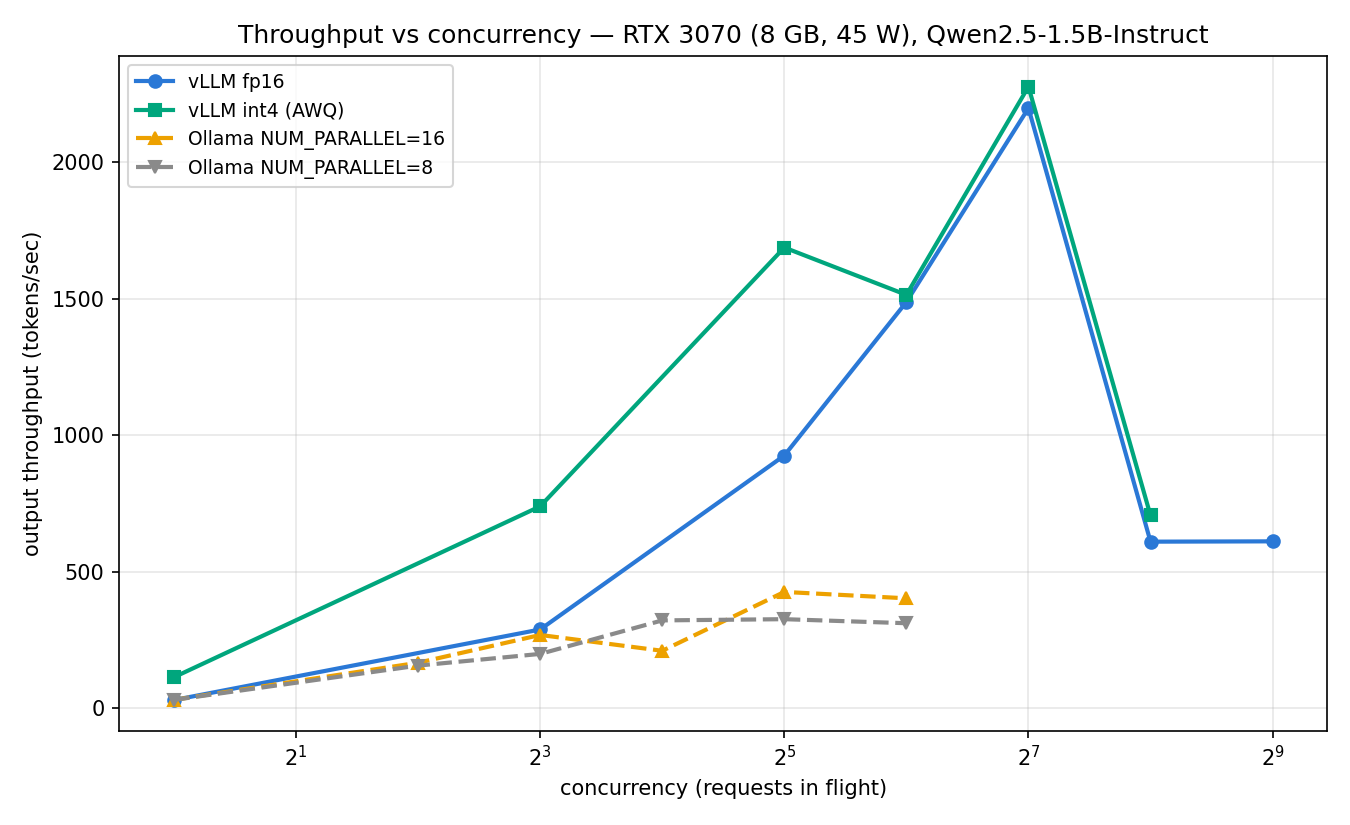
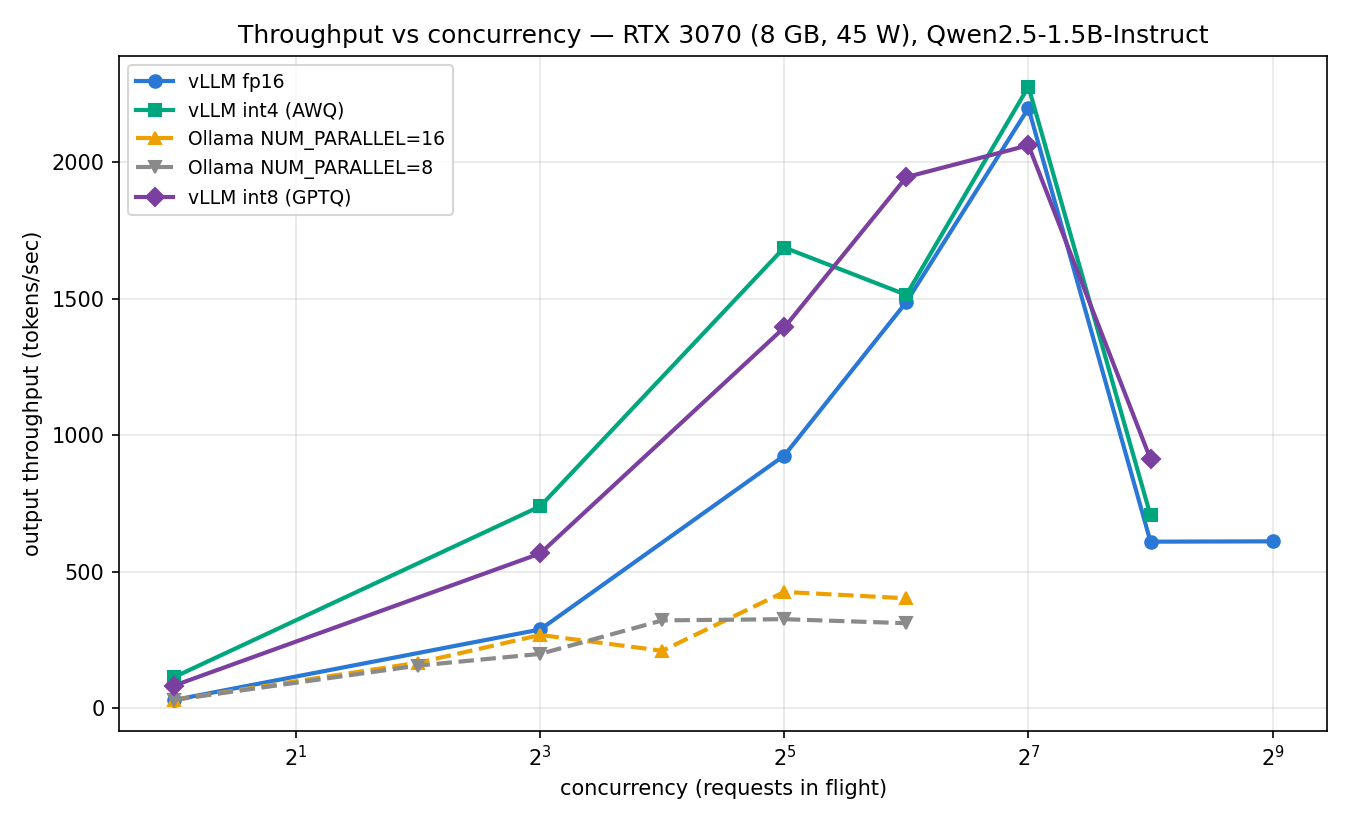
Complete quantization study: INT8 sweep confirms decay (2.74x@C=1 -> 0.94x@C=128). All three precisions converge to ~2.1-2.3k tok/s at C=128, suggesting a shared 45W compute ceiling. Quantization buys memory, not speed, under load.

diff --git a/src/plots.py b/src/plots.py
@@ -41,7 +41,8 @@ def plot_throughput():
              ("sweep-vllm-int4.json", "vLLM int4 (AWQ)", GREEN, "-", "s"),
              ("sweep-ollama-p16.json", "Ollama NUM_PARALLEL=16", AMBER, "--", "^"),
              ("sweep-ollama-p8.json", "Ollama NUM_PARALLEL=8", GRAY, "--", "v"),
-             ("sweep-ollama-p32.json", "Ollama NUM_PARALLEL=32 (VRAM spill)", RED, ":", "x")]
+             ("sweep-ollama-p32.json", "Ollama NUM_PARALLEL=32 (VRAM spill)", RED, ":", "x"),
+             ("sweep-vllm-int8.json", "vLLM int8 (GPTQ)", "#7b3fa0", "-", "D")]
     fig, ax = plt.subplots(figsize=(9, 5.5))
     for fname, label, color, ls, marker in specs:
         rec = load(fname)
@@ -117,29 +118,38 @@ def plot_quantization():
 
 
 def plot_int4_decay():
-    """The subtle result: INT4's advantage decays as the server gets busy."""
-    fp16, int4 = load("sweep-vllm.json"), load("sweep-vllm-int4.json")
-    if not (fp16 and int4):
+    """The subtle result: quantization's advantage decays as the server gets busy."""
+    fp16 = load("sweep-vllm.json")
+    if not fp16:
         return
     f = {r["concurrency"]: r["throughput_tps"] for r in fp16["sweep"]}
-    i = {r["concurrency"]: r["throughput_tps"] for r in int4["sweep"]}
-    xs = sorted(set(f) & set(i))
-    ratio = [i[c] / f[c] for c in xs]
 
     fig, ax = plt.subplots(figsize=(8, 5))
-    ax.plot(xs, ratio, color=GREEN, marker="o", lw=2.5)
+    for fname, label, color in [("sweep-vllm-int8.json", "INT8 (GPTQ)", AMBER),
+                                ("sweep-vllm-int4.json", "INT4 (AWQ)", GREEN)]:
+        rec = load(fname)
+        if rec is None:
+            continue
+        q = {r["concurrency"]: r["throughput_tps"] for r in rec["sweep"]}
+        xs = sorted(c for c in set(f) & set(q) if c <= 128)   # 256 is the max_num_seqs artifact
+        ratio = [q[c] / f[c] for c in xs]
+        ax.plot(xs, ratio, color=color, marker="o", lw=2.5, label=label)
+        for x, r in zip(xs, ratio):
+            ax.annotate(f"{r:.2f}x", (x, r), textcoords="offset points",
+                        xytext=(0, 8), ha="center", fontsize=8)
     ax.axhline(1.0, color=GRAY, ls="--", lw=1)
     ax.set_xscale("log", base=2)
     ax.set_xlabel("concurrency (requests in flight)")
-    ax.set_ylabel("INT4 throughput / FP16 throughput")
-    ax.set_title("INT4's advantage decays with load\n(memory-bound at C=1 → compute-bound at C=128)")
+    ax.set_ylabel("throughput vs FP16")
+    ax.set_title("Quantization's speed advantage decays with load\n"
+                 "(memory-bound at C=1 → compute-bound at C=128)")
     ax.grid(alpha=0.3)
-    for x, r in zip(xs, ratio):
-        ax.annotate(f"{r:.2f}x", (x, r), textcoords="offset points", xytext=(0, 8),
-                    ha="center", fontsize=8)
+    ax.legend()
     fig.tight_layout()
     fig.savefig(PLOTS / "int4_advantage_decay.png", dpi=150)
     plt.close(fig)
+
+
 
 
 def plot_max_num_seqs():